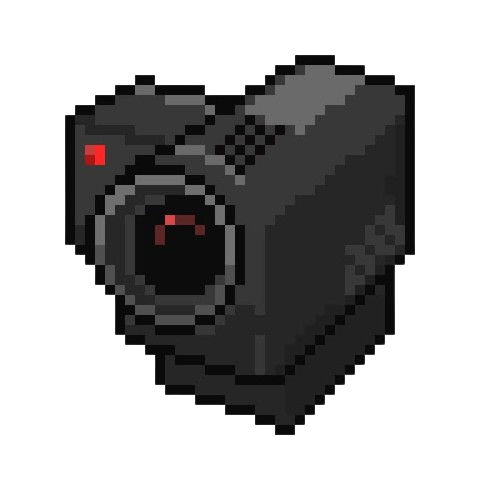
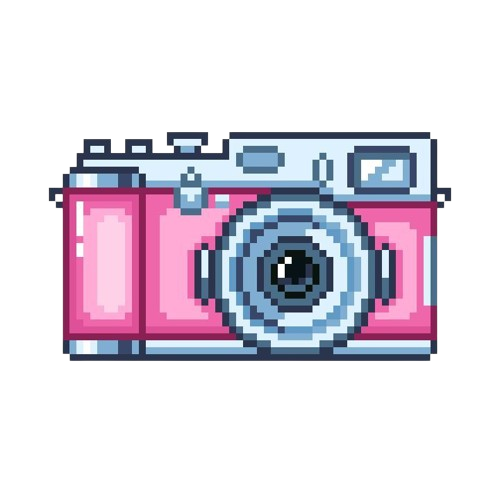
alterando produtos

diff --git a/mini-loja/data/produtos.js b/mini-loja/data/produtos.js
@@ -1,9 +1,9 @@
 export const produtos = [ 
-  { id: '1', nome: 'Fone Bluetooth', preco: 199.90, imagem: require('../assets/fone-sem-fio.png'), width: 60, height: 60},
-  { id: '2', nome: 'Teclado Mecânico', preco: 349.90, imagem: require('../assets/teclado.png'), width: 60, height: 60},
-  { id: '3', nome: 'Mouse Gamer', preco: 159.90, imagem: require('../assets/mouse.png'), width: 60, height: 60},
+  { id: '1', nome: 'Fone Bluetooth', preco: 199.90, imagem: require('../assets/fone-sem-fio.png'), width: 50, height: 50},
+  { id: '2', nome: 'Celular Antigo', preco: 349.90, imagem: require('../assets/celular-antigo.png'), width: 60, height: 60},
+  { id: '3', nome: 'Mouse Gamer', preco: 159.90, imagem: require('../assets/mouse.png'), width: 55, height: 55},
   { id: '4', nome: 'Monitor Ultrawide', preco: 1299.90, imagem: require('../assets/monitor.png'), width: 60, height: 60},
-  { id: '5', nome: 'Controle Bluetooth', preco: 299.90, imagem: require('../assets/controle-videogame.png'), width: 40, height: 40},
+  { id: '5', nome: 'Controle Bluetooth', preco: 299.90, imagem: require('../assets/controle-videogame.png'), width: 45, height: 40},
   { id: '6', nome: 'Caixinha Misteriosa', preco: 189.90, imagem: require('../assets/caixa-misteriosa.png'), width: 40, height: 40},
   { id: '7', nome: 'Câmera Profissional', preco: 189.90, imagem: require('../assets/camera-profissional.png'), width: 40, height: 40},
   { id: '8', nome: 'Disco Rígido', preco: 189.90, imagem: require('../assets/disco-rigido.png'), width: 45, height: 45},
